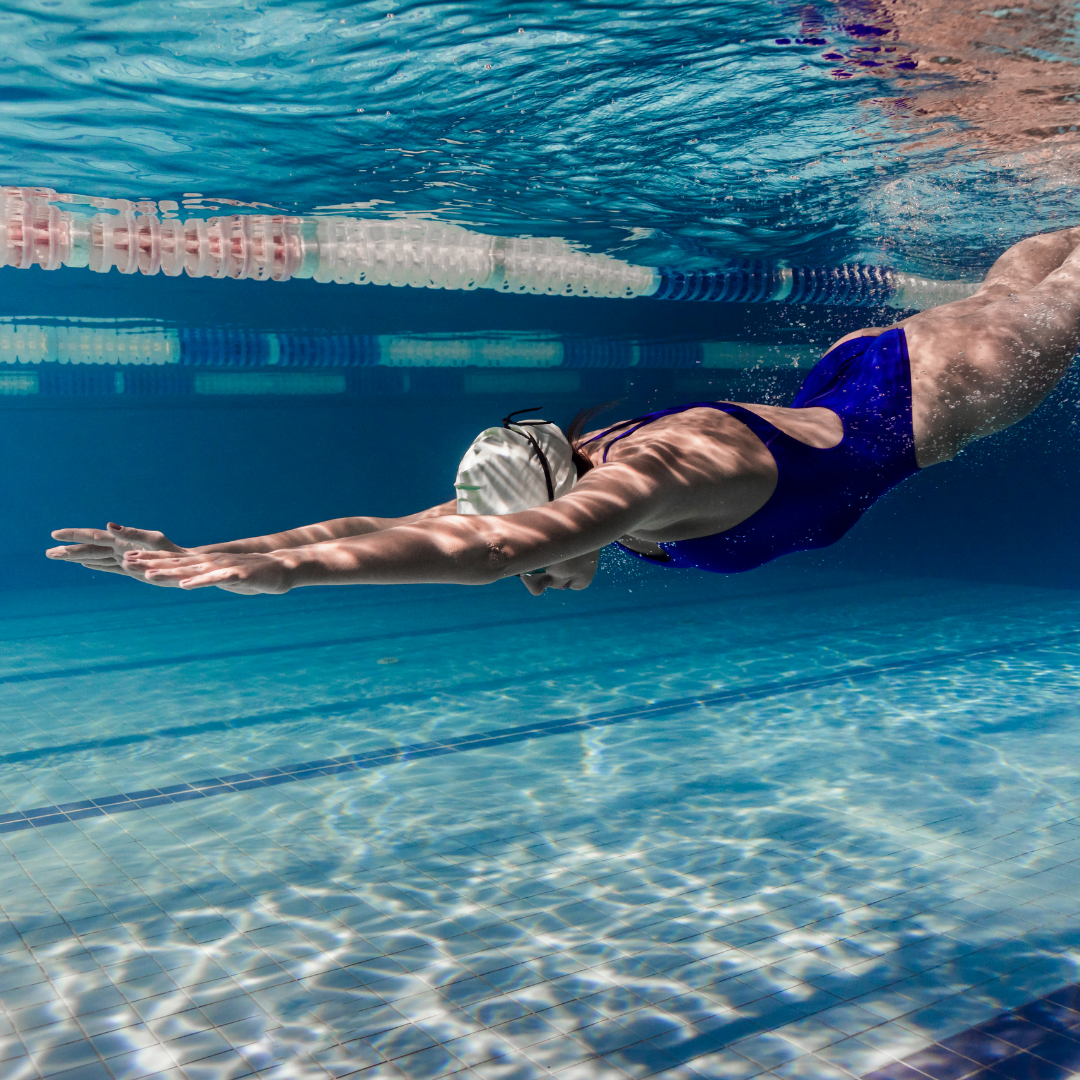
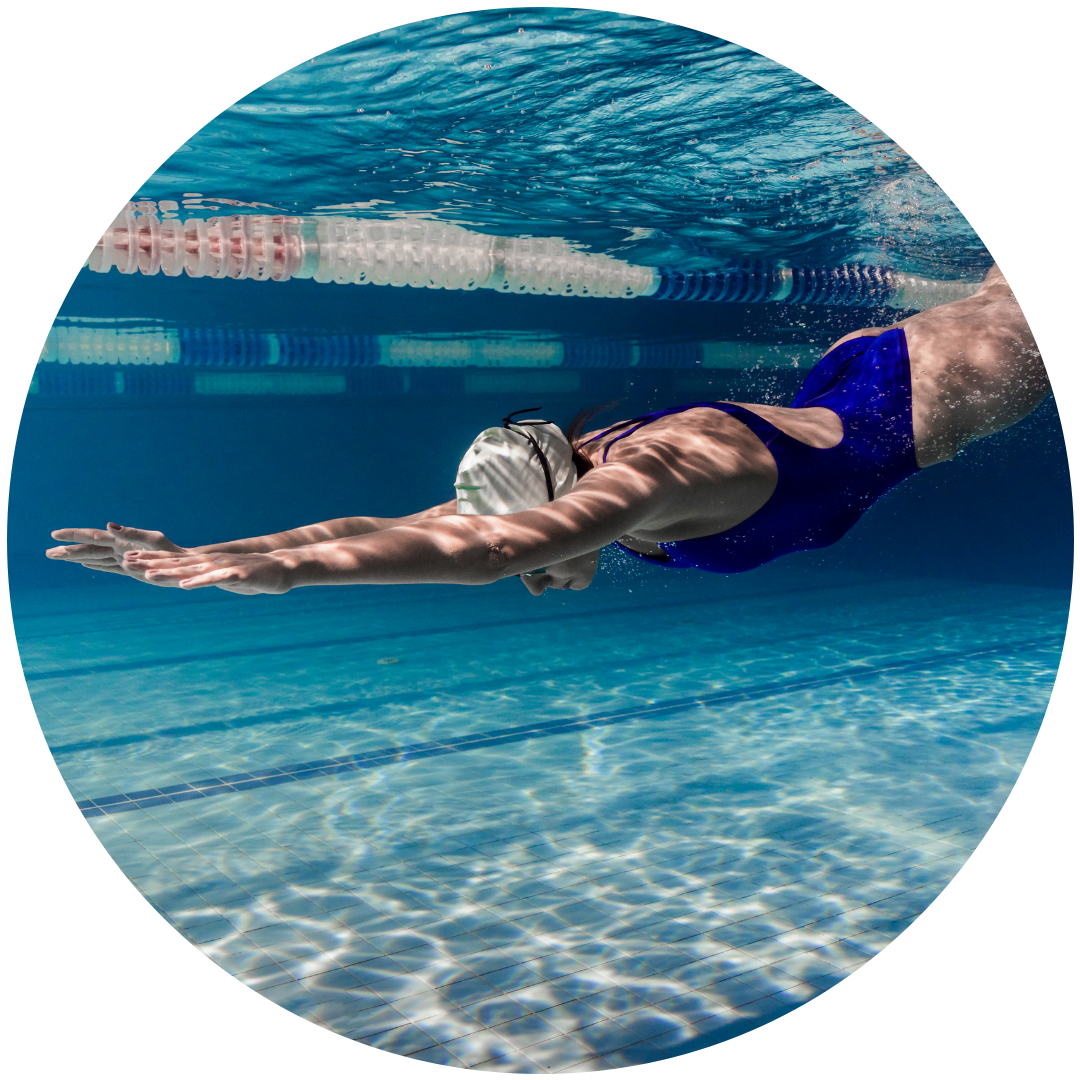
final (maybe)

Changed region(s): [[0.0, 0.0, 1.0, 1.0]]

diff --git a/static/css/profile_style.css b/static/css/profile_style.css
@@ -12,9 +12,10 @@ body {
 }
 
 .pill-bar {
+    height: 100px;
     width: 90%;
     margin: 5px auto 10px;
-    padding: 0px;
+    padding: 10px;
     background: #d7f1f7;
     border-radius: 40px;
     display: flex;
@@ -24,14 +25,16 @@ body {
 }
 
 .pill-icon {
-    width: 200px;
-    height: 200px;
+    width: 100px;
+    height: 100px;
+    border-radius: 50%;
 }
 
 
 .pill-icon-icon {
     width: 400px;
     height: 400px;
+    border-radius: 67%;
 }
 
 .header {
@@ -102,7 +105,7 @@ body {
     flex-wrap: wrap;
     gap: 10px;
     margin: 25px auto;
-    max-width: 95%;
+    max-width: 100%;
 }
 
 .badges img {

diff --git a/templates/trainer.html b/templates/trainer.html
@@ -33,7 +33,7 @@
     
     <div class="pill-bar program" style="margin-top: 32px;">
         <svg class="pill-icon" viewBox="0 0 24 24">
-            <image x="1.5" y="1.75" height="100%" width="100%" href="{{ url_for('static', filename='images/swim.png') }}"/>
+            <image x="0" y="0" height="100%" width="100%" href="{{ url_for('static', filename='images/swimming.png') }}"/>
         </svg>
         <span style="font-size: 1.2rem;font-weight: 700;">SWIMMING PROGRAM</span>
         <a style="font-size: 2;">MVR670 / month</a>

diff --git a/README.md b/README.md
@@ -1,4 +1,4 @@
-# PEAKLY
+# PEAKLY - TEAM TAKIS
 "Level up together"
 An all in one hub centered around building connections through fitness to encourage the youth to live healthier lives.
 
@@ -11,3 +11,11 @@ Once installed run the `run.cmd` file to deploy the web app locally to both loca
 
 ### WARNING
 Web app is not optimized for landscape display and may lead to unexpected behaviour.
+
+##LANGUAGE & PACKAGES USED
+- Python - backend
+- HTML - web layout
+- CSS - web styling
+
+PACKAGES
+- Flask
